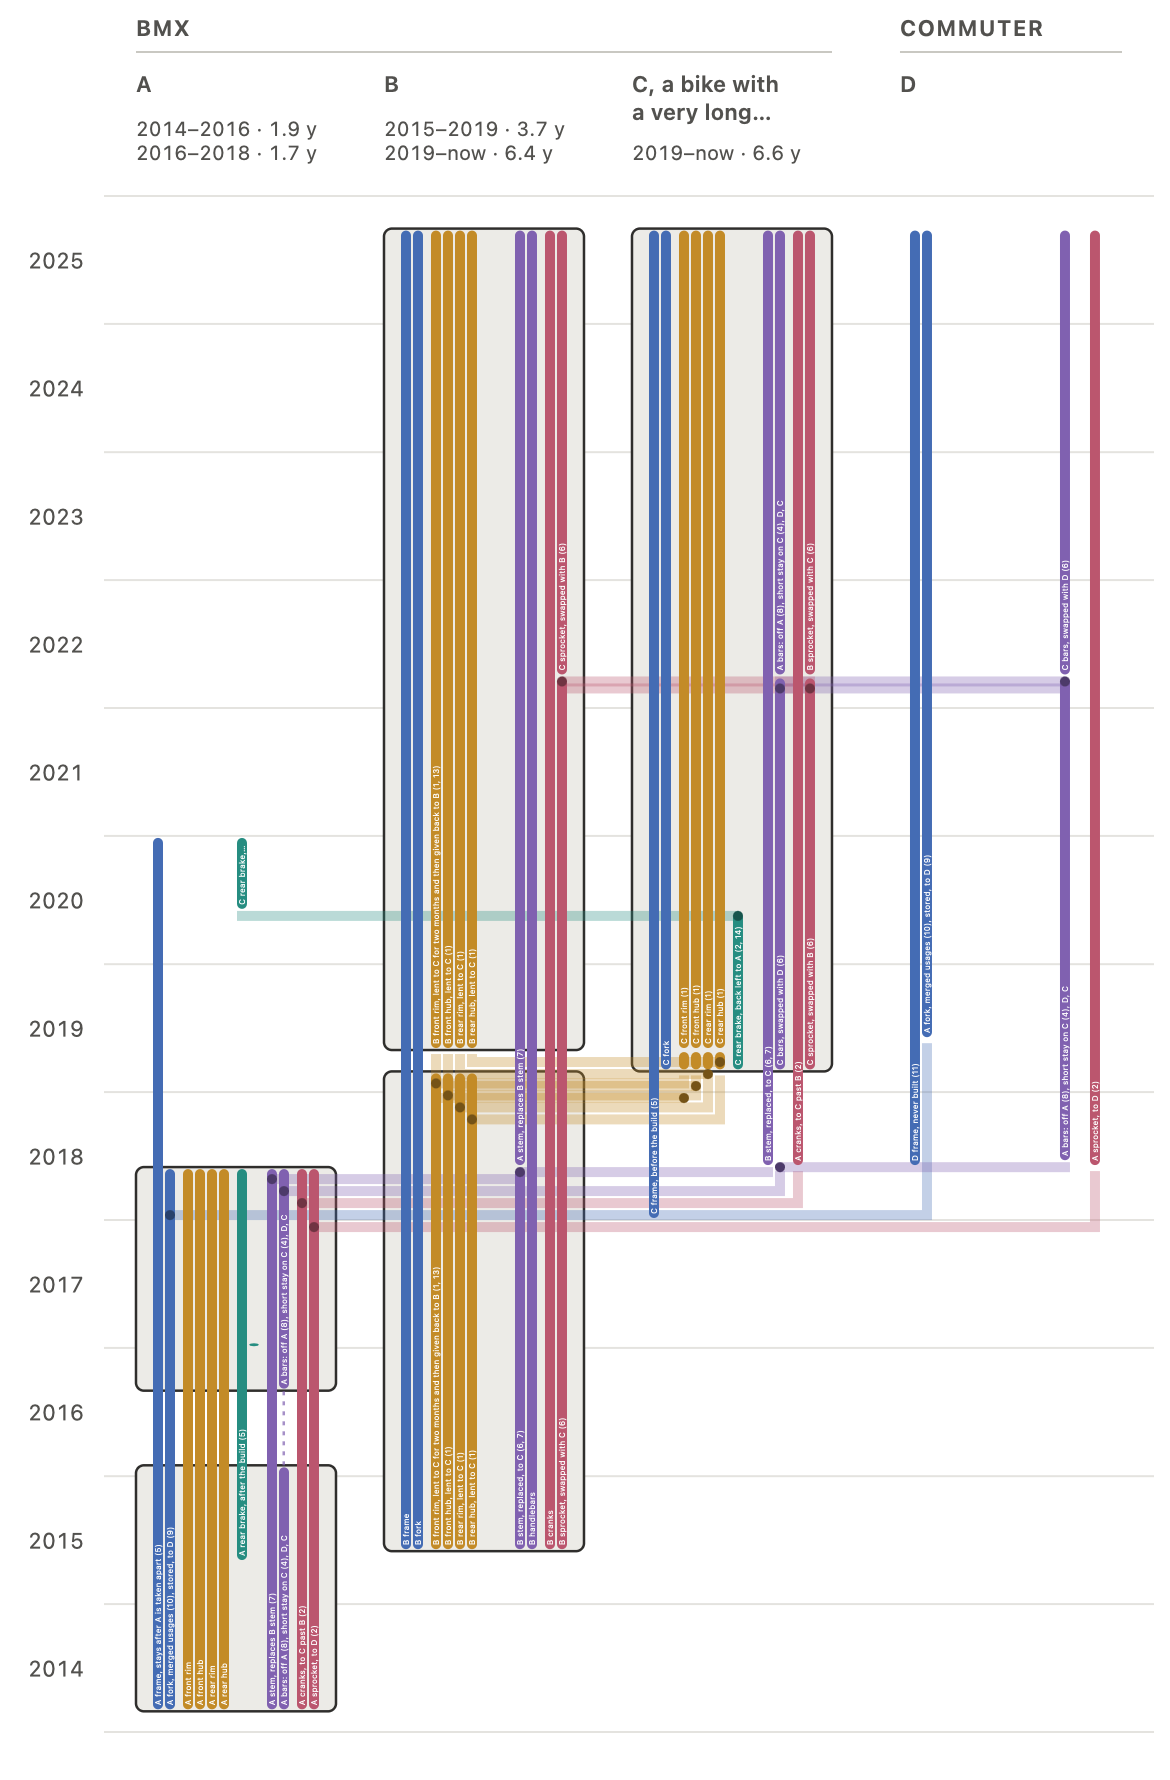
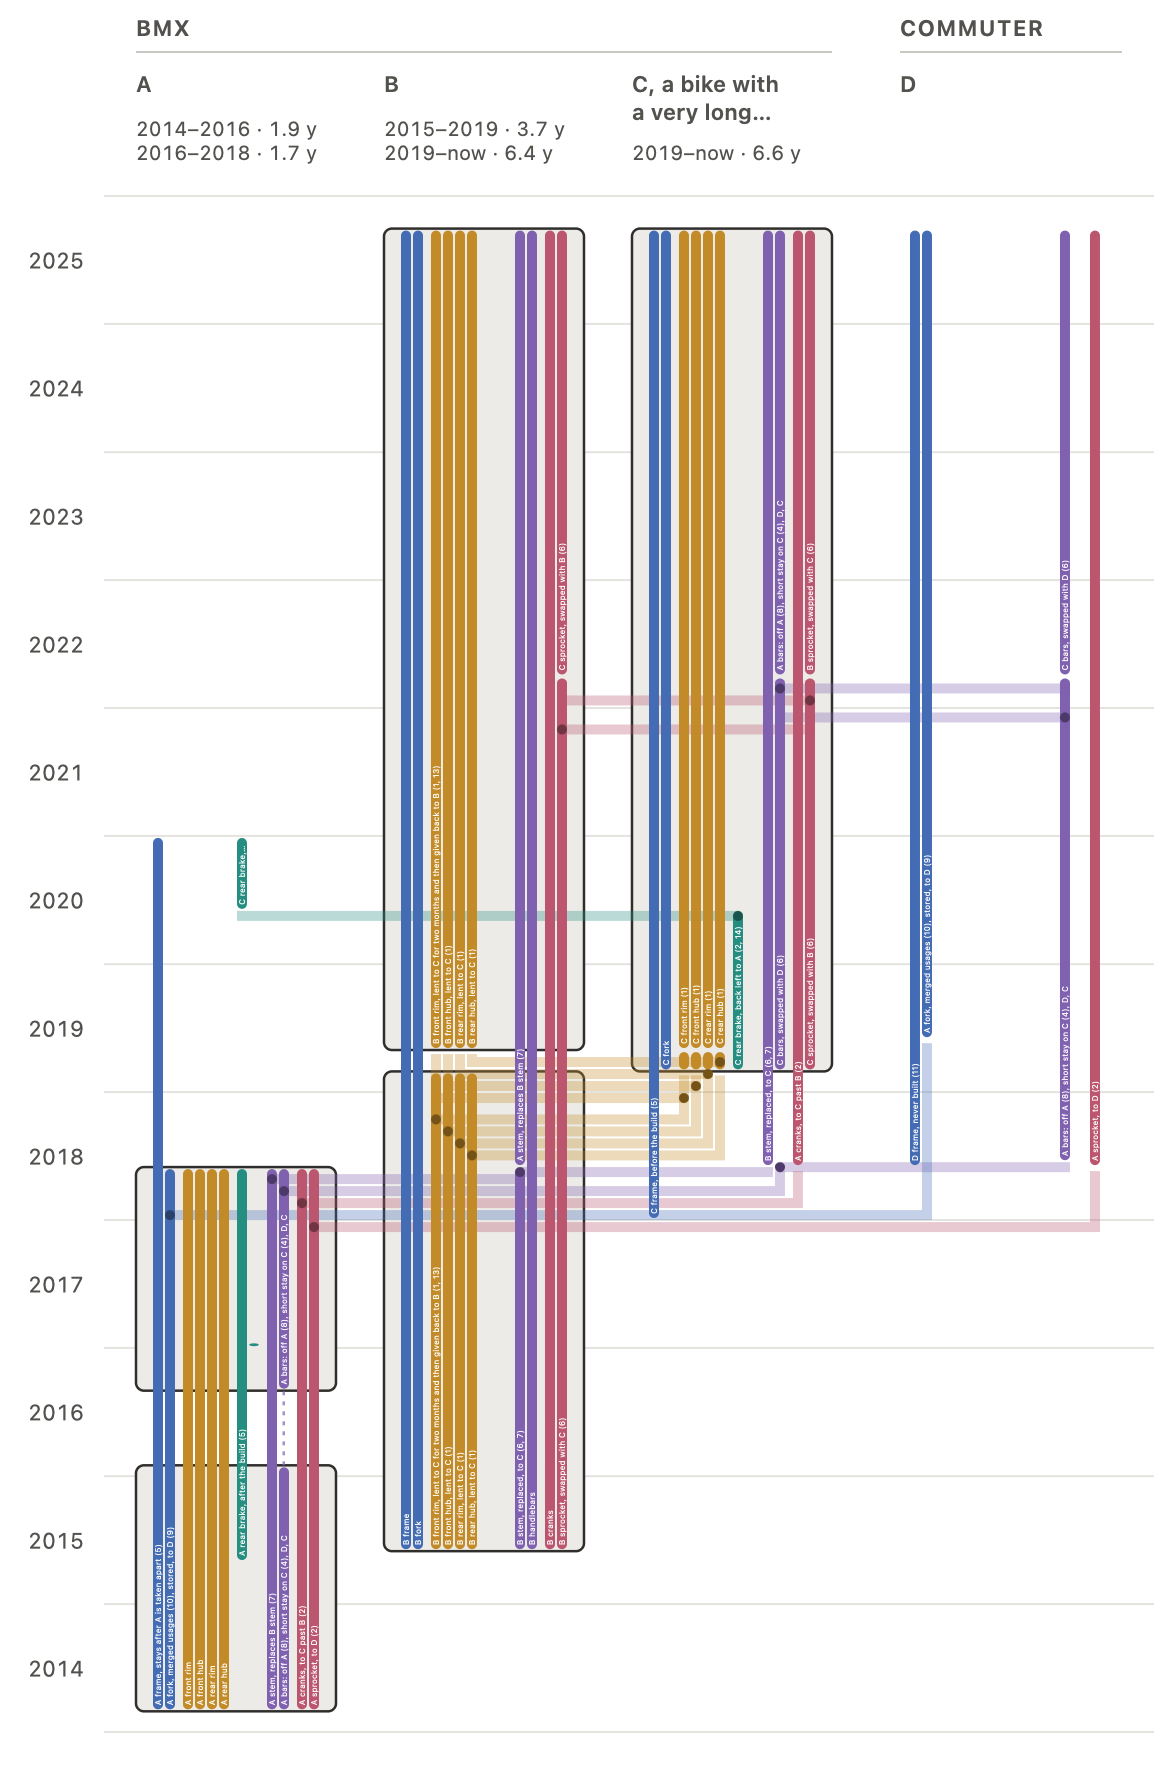
Keep ribbons of different departures from running on top of each other
Ribbons got their own tracks only when they left the same bike on the
same date, so ribbons leaving other bikes on the same or a nearby date
could run on top of each other. Departures are now placed from the
latest date down; if a departure's tracks would overlap ribbons already
placed, they all move down (leave earlier) one track at a time, at most
MAX_RIBBON_TRACK_SHIFT (4) tracks and never below the bottom of the old
strip. On the same date, the departure with the shortest old strip goes
first. If no shift clears it, the one with the fewest overlaps is used.

The search is findFreeTrackShift() in utils.js, with unit tests.
Overlapping horizontal runs: test data 10 -> 0, bikes.json 21 -> 7.
The visual references are saved again with the moved ribbons.

Routing libraries (libavoid-js, Graphviz, ELK.js) were tried first and
didn't fit the date-pinned layout.

Claude-Session: https://claude.ai/code/session_019CxsaXXSsb4k4stqjVzpw5

Changed region(s): [[0.3692, 0.5871, 0.6154, 0.6798], [0.6154, 0.3708, 0.9231, 0.4326], [0.4615, 0.3708, 0.5846, 0.4326]]

diff --git a/timeline.js b/timeline.js
@@ -101,6 +101,7 @@
   const MIN_BAR_WIDTH = 100;         // narrower bike bars are widened to this, with their lanes centred
   const RIBBON_TRACK_GAP = 1;        // empty space between the tracks of ribbons leaving a bike together
   const CONNECTOR_GAP_SIZE = 3;      // gap between an arriving ribbon and its new strip
+  const MAX_RIBBON_TRACK_SHIFT = 4;  // a departure moves at most this many tracks down to keep clear of other ribbons
   const DEPARTURE_DOT_SHADE = 0.6;   // departure dot colour: this much of the strip colour, the rest black
   const GAP_BETWEEN_BIKES = 24;
   const GAP_BETWEEN_BIKE_TYPES = 34;
@@ -484,6 +485,12 @@
 
   // Track order: the ribbon that turns up into the lane nearest the old bike gets the
   // highest track, so the ribbons of one rebuild don't cross each other.
+  //
+  // Ribbons of different departures (other bikes, or dates close together) would still run on top of
+  // each other. So departures are placed from the latest date down, and if a departure's tracks would
+  // run on top of ribbons already placed, they all move down (leave earlier) one track at a time
+  // (findFreeTrackShift in utils.js): at most MAX_RIBBON_TRACK_SHIFT tracks, and never below the bottom
+  // of the old strip. If no shift clears them, the one with the fewest overlaps is used.
   // Built bars and strips always keep their real dates.
   // ---------------------------------------------------------------------
   // Returns the ribbons, plus one departure dot ({ part, x, y }) per ribbon. laneCenterX(bikeId, laneIndex)
@@ -507,18 +514,37 @@
 
     const ribbons = [];
     const departureDots = [];
+    const placedRuns = []; // horizontal runs of the ribbons placed so far: { y, leftX, rightX }
+    // Latest date first; on the same date, the departure with the shortest old strip first, as it has the
+    // least room to move down.
+    const shortestStayOf = departures => Math.min(...departures.map(({ previousMounting }) => previousMounting.endTimestamp - previousMounting.startTimestamp));
+    const departureGroupsInOrder = [...departureGroups.values()].sort((first, second) =>
+      second[0].previousMounting.endTimestamp - first[0].previousMounting.endTimestamp || shortestStayOf(first) - shortestStayOf(second));
 
-    for (const departures of departureGroups.values()) {
+    for (const departures of departureGroupsInOrder) {
       const leavesTogether = departures.length > 1;
       // Right-going and left-going ribbons each get their own track sequence.
       const rightGoing = departures.filter(transfer => transfer.endX > transfer.startX).sort((first, second) => first.endX - second.endX);
       const leftGoing = departures.filter(transfer => transfer.endX <= transfer.startX).sort((first, second) => second.endX - first.endX);
 
       for (const tracks of [rightGoing, leftGoing]) {
-        tracks.forEach((transfer, trackIndex) => {
+        const runs = tracks.map((transfer, trackIndex) => {
           const moveDateY = timestampToY(transfer.previousMounting.endTimestamp);
-          // A lone part runs flush with the top of its strip; parts of a rebuild leave one step apart.
-          const departureY = leavesTogether ? moveDateY + (trackIndex + 1) * trackSpacing : moveDateY + ribbonWidth / 2;
+          // The old strip's bottom edge sits 1px above its start date; the ribbon has to leave above that.
+          const oldStripBottomY = timestampToY(transfer.previousMounting.startTimestamp) - 1;
+          return {
+            // A lone part runs flush with the top of its strip; parts of a rebuild leave one step apart.
+            y: leavesTogether ? moveDateY + (trackIndex + 1) * trackSpacing : moveDateY + ribbonWidth / 2,
+            leftX: Math.min(transfer.startX, transfer.endX) - ribbonWidth / 2,
+            rightX: Math.max(transfer.startX, transfer.endX) + ribbonWidth / 2,
+            maxY: oldStripBottomY - ribbonWidth / 2,
+          };
+        });
+        const shiftY = findFreeTrackShift(runs, placedRuns, trackSpacing, MAX_RIBBON_TRACK_SHIFT);
+        runs.forEach(run => placedRuns.push({ ...run, y: run.y + shiftY }));
+
+        tracks.forEach((transfer, trackIndex) => {
+          const departureY = runs[trackIndex].y + shiftY;
           // The new strip's bottom edge sits 1px above its start date; the ribbon stops a gap below that.
           const newStripBottomY = timestampToY(transfer.nextMounting.startTimestamp) - 1;
           const ribbonEndY = Math.min(newStripBottomY + CONNECTOR_GAP_SIZE, departureY);

diff --git a/test.js b/test.js
@@ -274,6 +274,25 @@ test('findOverlappingPartsOfOneType: two parts of one type on a bike at once', (
   ]), ['Haro: two × frame at 2015-01-01 (Second frame)']);
   assertEqual(findOverlappingPartsOfOneType([{ name: 'Haro', mountings: [] }]), []);
 });
+test('findFreeTrackShift: moves runs down until they are clear of placed runs', () => {
+  const run = (y, leftX, rightX, maxY = 1000) => ({ y, leftX, rightX, maxY });
+  // nothing placed, or placed elsewhere: no shift
+  assertEqual(findFreeTrackShift([run(100, 0, 50)], [], 6, 4), 0);
+  assertEqual(findFreeTrackShift([run(100, 0, 50)], [run(100, 60, 90)], 6, 4), 0);
+  assertEqual(findFreeTrackShift([run(100, 0, 50)], [run(94, 0, 90)], 6, 4), 0); // exactly one track apart
+  // on top of a placed run: one step down; two placed runs: two steps
+  assertEqual(findFreeTrackShift([run(100, 0, 50)], [run(100, 40, 90)], 6, 4), 6);
+  assertEqual(findFreeTrackShift([run(100, 0, 50)], [run(100, 40, 90), run(106, 0, 20)], 6, 4), 12);
+  // runs move together
+  assertEqual(findFreeTrackShift([run(100, 0, 50), run(106, 0, 60)], [run(110, 55, 90)], 6, 4), 12); // only the second run is in the way
+  // no free shift within maxSteps: the one with the fewest collisions, the smaller one on a tie
+  const crowd = [run(100, 0, 90), run(106, 0, 90), run(112, 0, 90)];
+  assertEqual(findFreeTrackShift([run(100, 0, 50), run(106, 60, 80)], crowd, 6, 1), 0); // 2 collisions at both shifts
+  assertEqual(findFreeTrackShift([run(100, 0, 50), run(94, 60, 80)], crowd, 6, 1), 0); // 1 collision, then 2
+  // a run never moves below its maxY (the bottom of its strip)
+  assertEqual(findFreeTrackShift([run(100, 0, 50, 104)], [run(100, 0, 90)], 6, 4), 0);
+  assertEqual(findFreeTrackShift([run(100, 0, 50, 106)], [run(100, 0, 90)], 6, 4), 6);
+});
 
 const summary = document.getElementById('summary');
 summary.textContent = `${passedCount} passed, ${failedCount} failed`;

diff --git a/utils.js b/utils.js
@@ -345,3 +345,23 @@ function findOverlappingPartsOfOneType(bikes) {
   }
   return errors;
 }
+
+// Ribbon tracks: how far to move a set of horizontal ribbon runs down (to an earlier date) so they don't
+// run on top of runs placed before. A run is { y, leftX, rightX, maxY }: y is where it would run, maxY
+// the lowest it may go (it has to leave its strip). Two runs collide when they share some x and are
+// less than trackSpacing apart in y. The runs move together, in steps of trackSpacing, at most
+// maxSteps steps. Returns the first shift without collisions; if there is none, the one with the
+// fewest (the smaller shift on a tie), so ribbons never move further than maxSteps.
+function findFreeTrackShift(runs, placedRuns, trackSpacing, maxSteps) {
+  const collisionCount = shiftY => runs.filter(run => placedRuns.some(placedRun =>
+    Math.abs(run.y + shiftY - placedRun.y) < trackSpacing && run.leftX < placedRun.rightX && placedRun.leftX < run.rightX)).length;
+  let bestShift = 0, fewestCollisions = Infinity;
+  for (let step = 0; step <= maxSteps; step++) {
+    const shiftY = step * trackSpacing;
+    if (step > 0 && runs.some(run => run.y + shiftY > run.maxY)) break;
+    const collisions = collisionCount(shiftY);
+    if (collisions < fewestCollisions) { bestShift = shiftY; fewestCollisions = collisions; }
+    if (collisions === 0) break;
+  }
+  return bestShift;
+}

diff --git a/README.md b/README.md
@@ -7,7 +7,7 @@ An HTML page that shows the history of my bikes and how parts moved between them
 - `index.html`: the page itself.
 - `test-bikes.json`: the test data, shown when the page opens (see [Test data](#test-data)).
 - `styles.css`: all styles, including the dark theme and the print styles. Each colour is written once as `light-dark(light, dark)`, which needs Safari 17.5, Chrome 123 or Firefox 120 or newer.
-- `utils.js`: helpers with no state of their own and no access to the page, so they can be unit tested: date formatting (`formatMonthYear`, `formatPeriodDates`, `formatPeriodYears`, `formatDuration`, …), `mergeBackToBackMountings` and `consecutivePairs` (a part's mountings), `computeBuiltPeriods`, the lane and column layout (`computeLaneLayout`, `layoutBikeColumns`), `escapeHtml`, text wrapping, `describePartTypes` (the legend's part type lists), `fitTextIntoLength` (the print labels), `partTypesIgnoredOnEveryBikeType`, and `validateData` and `findOverlappingPartsOfOneType` (the data errors).
+- `utils.js`: helpers with no state of their own and no access to the page, so they can be unit tested: date formatting (`formatMonthYear`, `formatPeriodDates`, `formatPeriodYears`, `formatDuration`, …), `mergeBackToBackMountings` and `consecutivePairs` (a part's mountings), `computeBuiltPeriods`, the lane and column layout (`computeLaneLayout`, `layoutBikeColumns`), `escapeHtml`, text wrapping, `describePartTypes` (the legend's part type lists), `fitTextIntoLength` (the print labels), `findFreeTrackShift` (keeping ribbons apart), `partTypesIgnoredOnEveryBikeType`, and `validateData` and `findOverlappingPartsOfOneType` (the data errors).
 - `timeline.js`: everything else: configuration, the model, the chart and the controls.
 - `test.html` and `test.js`: unit tests for `utils.js`. `test.html` also runs the visual tests (`visual-test.js`, with the reference images `visual-reference.png` and `visual-reference-print.png`). See [Tests](#tests).
 
@@ -89,6 +89,7 @@ Parts moving between bikes are connected by right-angled "L" ribbons: horizontal
 - Parts leaving a bike on the same date get their own track each, 1px apart (`RIBBON_TRACK_GAP`), leaving one step earlier per track. The old strip stays unbroken up to its real end date, and a dot in a darker shade of its colour marks where the ribbon leaves it.
 - A part leaving alone leaves flush with the top of its strip, also marked with a dot. Every departure has a dot; arrivals have none.
 - Ribbons stop a small gap (`CONNECTOR_GAP_SIZE`) below the new strip so its bottom edge marks the start date. A part being replaced in that lane keeps its real end date; the ribbon runs underneath it, so the lane has no gap.
+- Ribbons of different departures (from other bikes, or on dates close together) don't run on top of each other: departures are placed from the latest date down, and one whose tracks would overlap ribbons already placed moves down (leaves earlier) one track at a time, all its tracks together. It moves at most `MAX_RIBBON_TRACK_SHIFT` tracks and never below the bottom of its old strip; on the same date, the departure with the shortest old strip is placed first, as it has the least room. If no shift clears it, the one with the fewest overlaps is used. Ribbons arriving in the same lane can still share their vertical leg.
 - A part returning to the same bike after a break gets a dotted line.
 
 ## Test data
@@ -100,7 +101,7 @@ Parts moving between bikes are connected by right-angled "L" ribbons: horizontal
 3. **A big rebuild**: five parts leave A on the same day (2018-06-01) for three different bikes.
 4. **Short stays**: A's handlebars spend two weeks on C before moving on to D. A rear brake lever stays on A for under three weeks without ever moving.
 5. **Parts before and after a bike's full build**: C's frame, stem and cranks are on it long before C is built; A's frame stays on A years after A is taken apart, and C's rear brake arrives on that frame afterwards. A's rear brake (optional on a BMX) arrives a year after A is built.
-6. **Overlapping ribbons**: on 2018-06-01, B's stem leaves for C on the same day A's parts pass under B to C and D. On 2022-04-01, B and C swap sprockets (two ribbons running opposite ways between the same bikes), and C and D swap handlebars, so C's ribbons go left and right at once.
+6. **Overlapping ribbons**: on 2018-06-01, B's stem leaves for C on the same day A's parts pass under B to C and D. On 2022-04-01, B and C swap sprockets (two ribbons running opposite ways between the same bikes), and C and D swap handlebars, so C's ribbons go left and right at once. Each of these gets its own tracks; on 2022-04-01 the second ribbon of each swap leaves one track lower.
 7. **A part replaced while its replacement's ribbon arrives**: A's stem replaces B's stem on the day B's stem leaves; the ribbon runs underneath B's old stem.
 8. **A part leaving and coming back to the same bike**: A's handlebars are off A for seven months (dotted line, and a gap in A's built bar).
 9. **A part stored between two bikes**: A's fork leaves A on 2018-06-01 but only goes on D a year later, so its ribbon has a long vertical leg.
